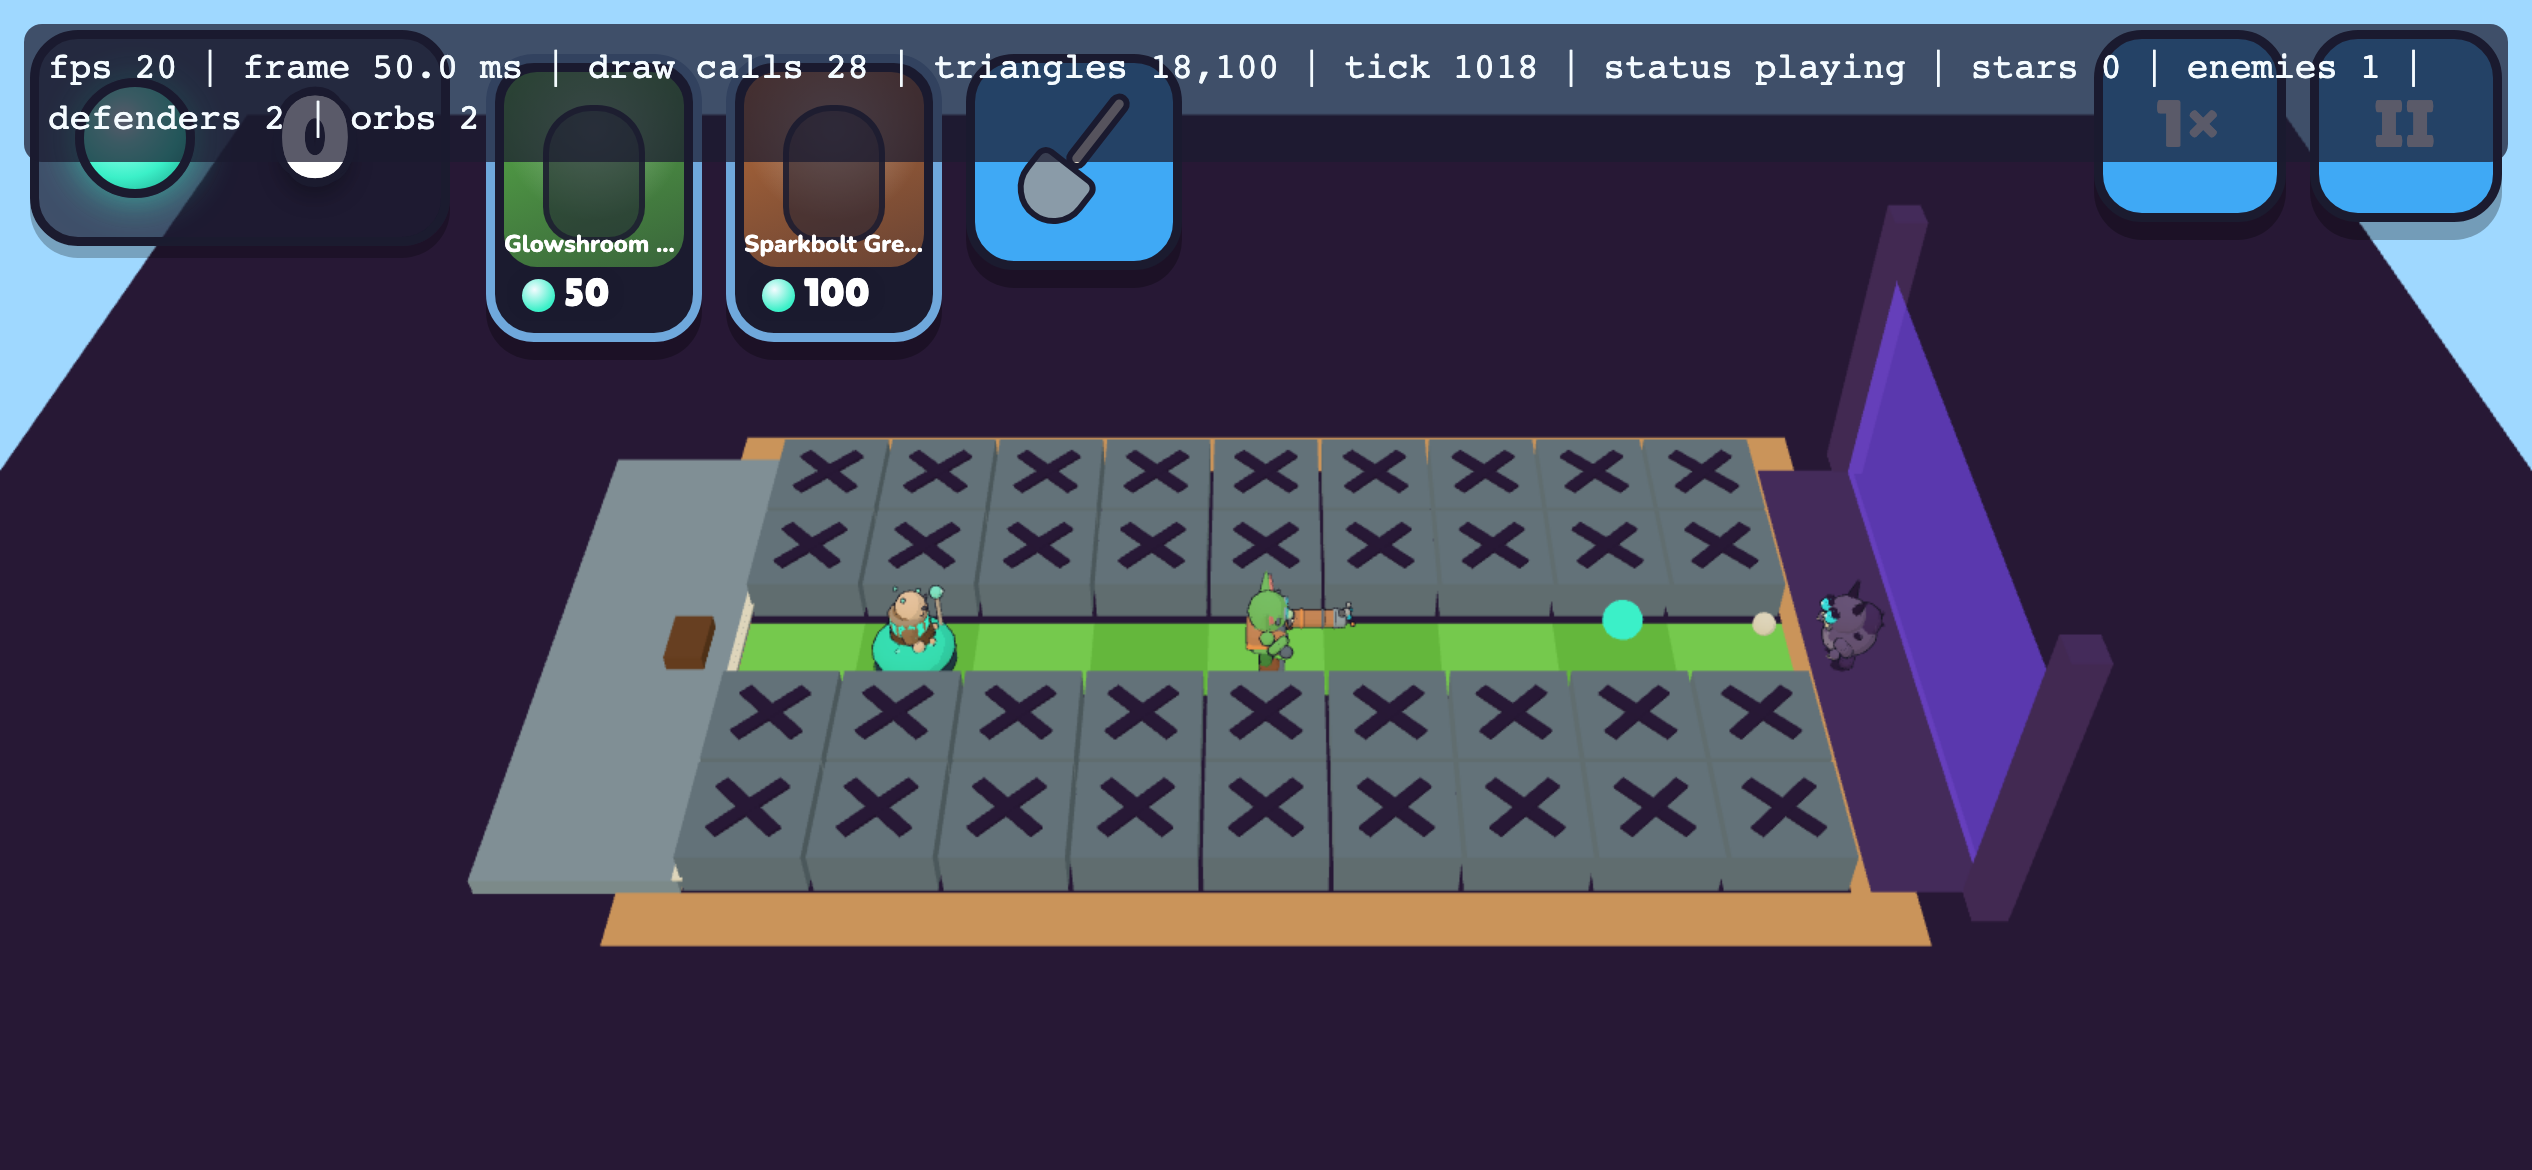
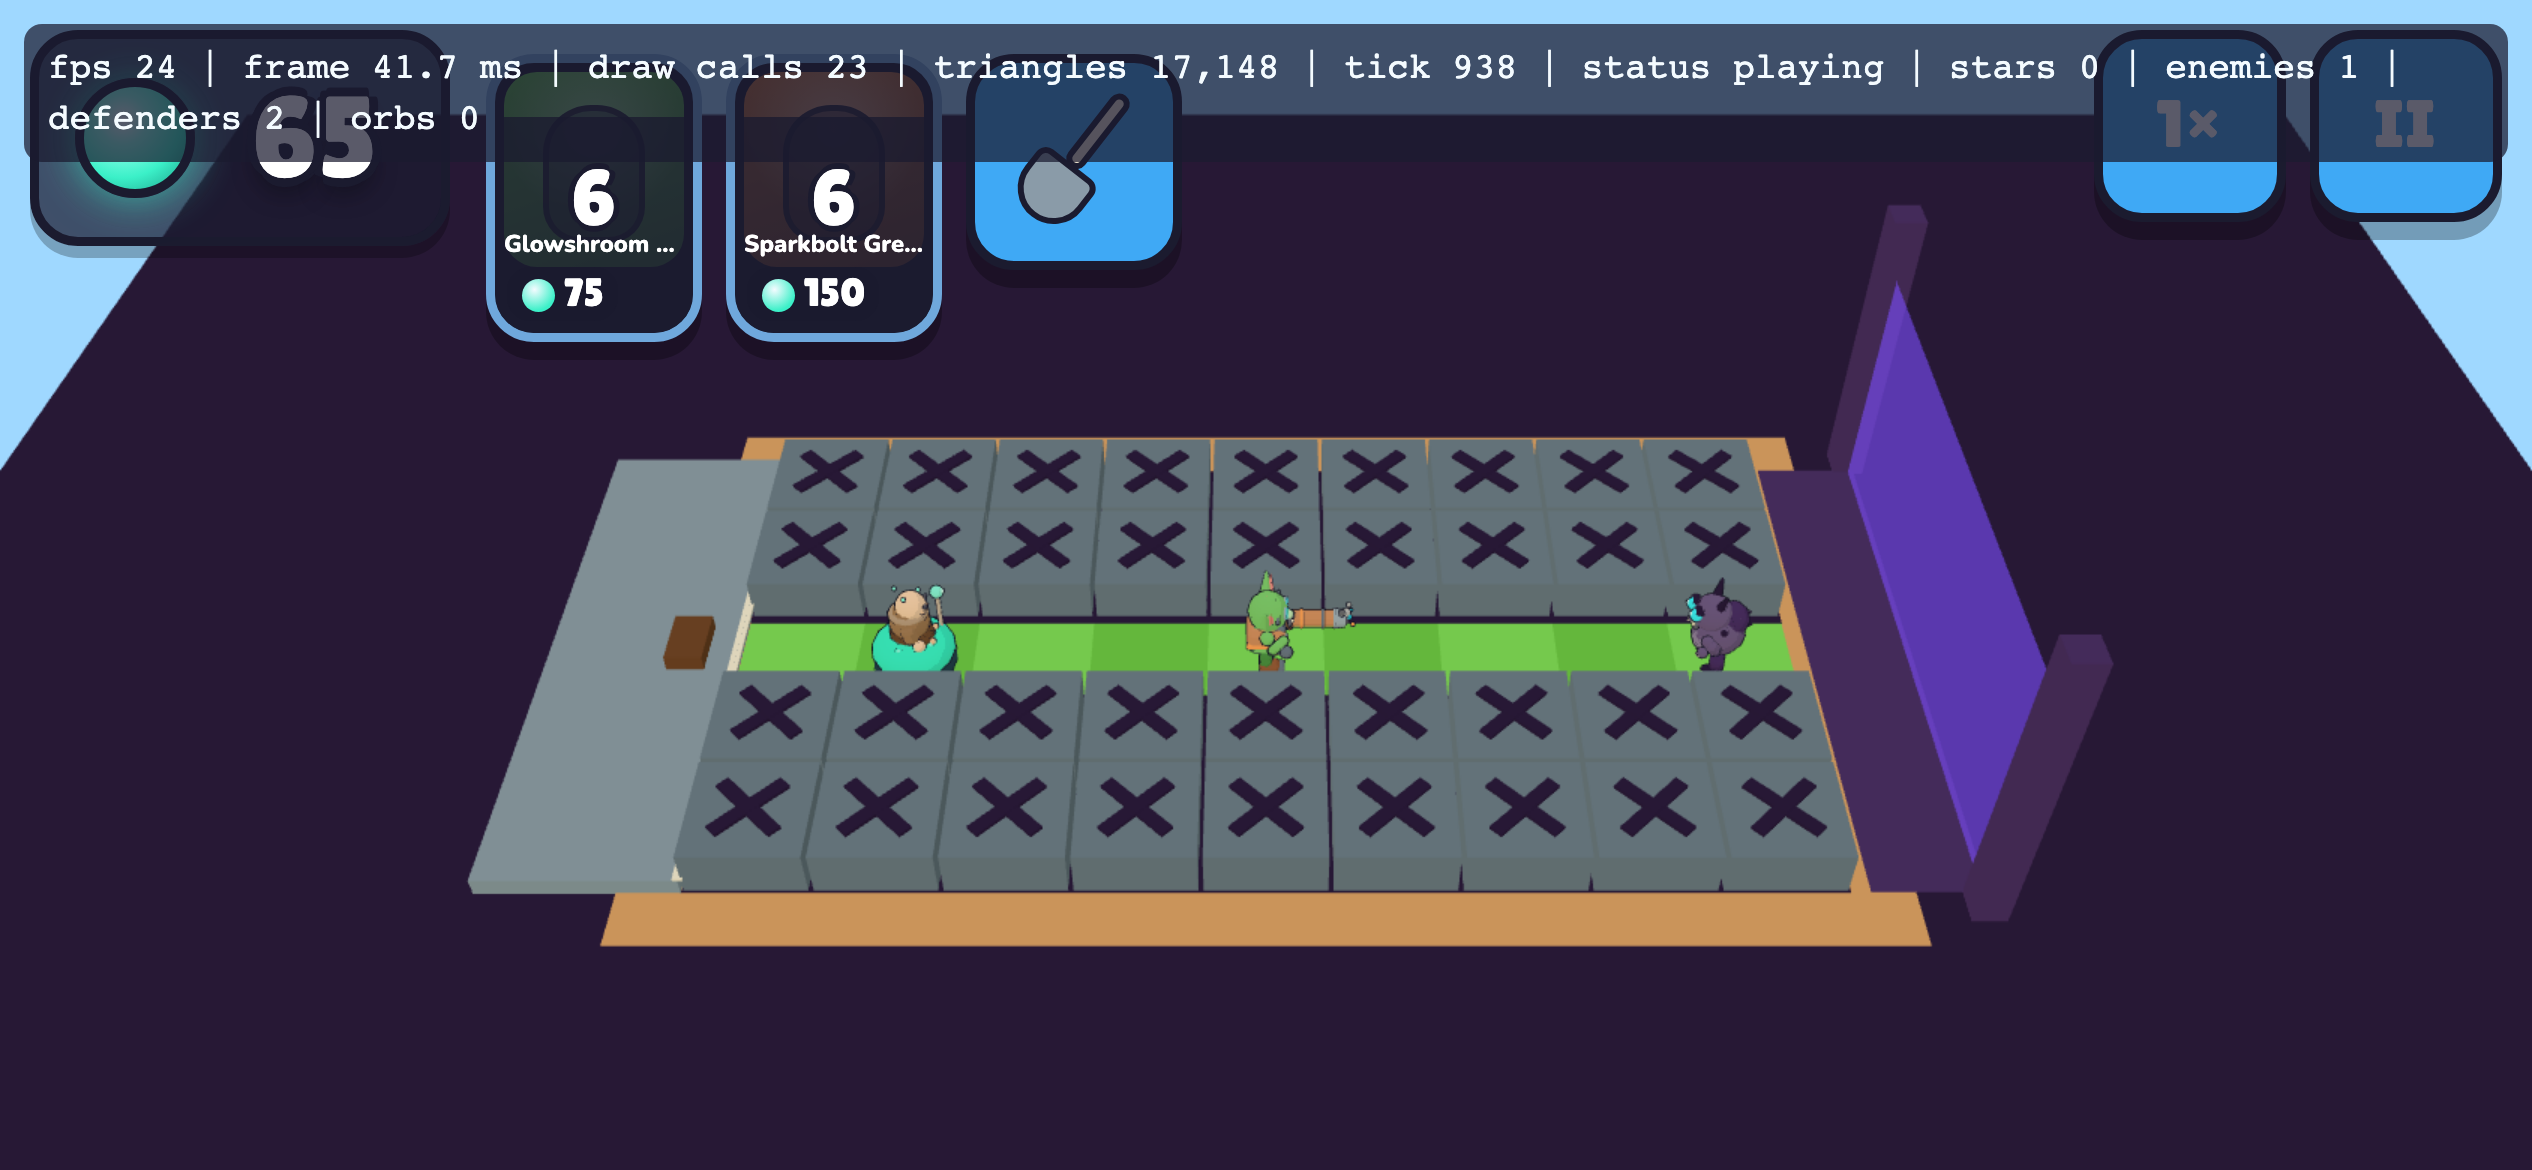
fix(debug): fund the model-screenshot loadout at the requested tick
World 1 balance (#51) raised the Glowshroom Monk to 75 Essence and the Sparkbolt
Gremlin to 150, so a tick-0 placement in W1-L01 (150 starting Essence) can no
longer show both pilot defenders. The debug ?place= entries now run after the
fast-forward, and the new ?autocollect=1 screenshot helper enables the existing
auto-collect so the sky drops fund the loadout (290 Essence at tick 900). The
gloomling close-up moves to tick 3000, where the slower post-balance Gloomlings
reach the Monk. Screenshots regenerated at 844x390 and 1280x720.

diff --git a/tests/debug.test.ts b/tests/debug.test.ts
@@ -202,6 +202,16 @@ describe('debug level boot (issue #27)', () => {
 });
 
 describe('debug model screenshots (issue #66)', () => {
+  it('accepts the ?autocollect=1 screenshot helper', () => {
+    expect(parseDebugUrl('?level=w1-l01&autocollect=1')).toEqual({
+      kind: 'level',
+      levelId: 'w1_l01',
+      seed: 10001,
+      tick: 0,
+      autoCollect: true,
+    });
+  });
+
   it('accepts a ?cards= loadout override without touching the default debug loadout', () => {
     expect(parseDebugUrl('?level=w1-l01&cards=glowshroom_monk,sparkbolt_gremlin')).toEqual({
       kind: 'level',
@@ -236,15 +246,17 @@ describe('debug model screenshots (issue #66)', () => {
     }
   });
 
-  it('places the debug defenders before the fast-forward, so a deep tick shows them', () => {
+  it('places the debug defenders after the fast-forward, so a deep tick is affordable', () => {
     const level = debugLevel();
     const parsed = parseDebugUrl(
-      '?level=w1-l01&cards=glowshroom_monk,sparkbolt_gremlin&place=glowshroom_monk:2,1;sparkbolt_gremlin:2,4',
+      '?level=w1-l01&cards=glowshroom_monk,sparkbolt_gremlin&place=glowshroom_monk:2,1;sparkbolt_gremlin:2,4&autocollect=1',
     );
     if (parsed.kind !== 'level') {
       throw new Error('expected a level debug request');
     }
     const sim = createSim(level, createDebugLoadout(level, parsed.cards), parsed.seed);
+    sim.enqueue({ type: 'setAutoCollect', on: true });
+    fastForward(sim, 900);
     for (const placement of parsed.placements ?? []) {
       sim.enqueue({
         type: 'place',
@@ -253,7 +265,7 @@ describe('debug model screenshots (issue #66)', () => {
         col: placement.col,
       });
     }
-    fastForward(sim, 900);
+    fastForward(sim, 1);
     expect(sim.state.defenders.map((defender) => defender.defenderId).sort()).toEqual([
       'glowshroom_monk',
       'sparkbolt_gremlin',

diff --git a/src/main.ts b/src/main.ts
@@ -124,9 +124,18 @@ function startLevelRun(
   tick: number,
   loadout: readonly LoadoutEntry[],
   placements: readonly DebugPlacement[] = [],
+  autoCollect = false,
 ): void {
   const sim = createSim(level, [...loadout], seed);
-  // Debug-only (issue #66): place defenders at tick 0 so a deep tick already shows the models.
+  if (autoCollect) {
+    // Debug-only (issue #66): let the fast-forward collect sky drops so the screenshot
+    // loadout is affordable at a deep tick (spec 3.3 auto-collect).
+    sim.enqueue({ type: 'setAutoCollect', on: true });
+  }
+  renderer.showLevel(level);
+  fastForward(sim, tick, (events) => renderer.handleEvents(events));
+  // Debug-only (issue #66): place defenders after the fast-forward, so a deep tick has
+  // accumulated enough Essence for the screenshot loadout.
   for (const placement of placements) {
     sim.enqueue({
       type: 'place',
@@ -135,8 +144,6 @@ function startLevelRun(
       col: placement.col,
     });
   }
-  renderer.showLevel(level);
-  fastForward(sim, tick, (events) => renderer.handleEvents(events));
 
   let hud: HudHandle | null = null;
   const levelRenderer = {
@@ -178,6 +185,7 @@ function startDebugLevel(
     request.tick,
     createDebugLoadout(level, request.cards),
     request.placements ?? [],
+    request.autoCollect === true,
   );
 }
 

diff --git a/tests/e2e/stylePilot.spec.ts b/tests/e2e/stylePilot.spec.ts
@@ -7,7 +7,7 @@ import { expect, test } from '@playwright/test';
 
 const PILOT_URL =
   '/?level=w1-l01&seed=10001&tick=900&perf=1' +
-  '&cards=glowshroom_monk,sparkbolt_gremlin' +
+  '&cards=glowshroom_monk,sparkbolt_gremlin&autocollect=1' +
   '&place=glowshroom_monk:2,1;sparkbolt_gremlin:2,4';
 
 const MODEL_IDS = ['glowshroom_monk', 'sparkbolt_gremlin', 'gloomling'];
@@ -63,10 +63,11 @@ test('style pilot: W1-L01 renders the monk, gremlin and gloomling models', async
   expect(pageErrors, 'uncaught page errors').toEqual([]);
 });
 
-// The Gloomling close-up: no shooter in the loadout, so the first Gloomling reaches the
-// Monk by tick 1700 (56.7 s) and is large enough to review its shape and glowing eyes.
+// The Gloomling close-up: no shooter in the loadout, so by tick 3000 (100 s) the first
+// Gloomling is close to the Monk and large enough to review its shape and glowing eyes.
 const GLOOMLING_URL =
-  '/?level=w1-l01&seed=10001&tick=1700&perf=1' + '&cards=glowshroom_monk&place=glowshroom_monk:2,1';
+  '/?level=w1-l01&seed=10001&tick=3000&perf=1' +
+  '&cards=glowshroom_monk&place=glowshroom_monk:2,1&autocollect=1';
 
 test('style pilot: the Gloomling walks up to the Monk in W1-L01', async ({ page }) => {
   const consoleErrors: string[] = [];

diff --git a/src/debug.ts b/src/debug.ts
@@ -25,8 +25,10 @@ export interface DebugLevelRequest {
   readonly tick: number;
   /** Debug-only loadout override (`?cards=id,id`), used for model screenshots. */
   readonly cards?: readonly string[];
-  /** Debug-only auto-placements (`?place=id:lane,col;...`), applied before the fast-forward. */
+  /** Debug-only auto-placements (`?place=id:lane,col;...`), applied after the fast-forward. */
   readonly placements?: readonly DebugPlacement[];
+  /** Debug-only auto-collect (`?autocollect=1`) so sky drops fund the screenshot loadout. */
+  readonly autoCollect?: boolean;
 }
 
 /**
@@ -167,6 +169,7 @@ export function parseDebugUrl(search: string): DebugUrlResult {
     tick,
     ...(cards.length > 0 ? { cards } : {}),
     ...(placements.length > 0 ? { placements } : {}),
+    ...(parameters.get('autocollect') === '1' ? { autoCollect: true } : {}),
   };
 }
 
